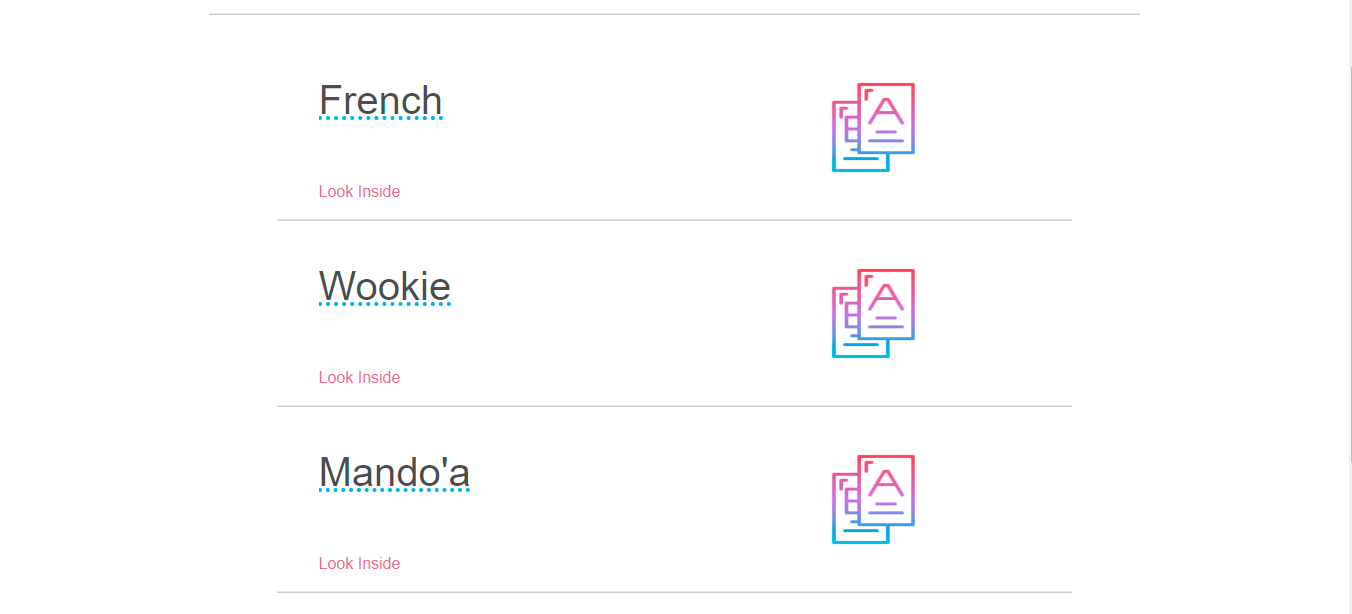
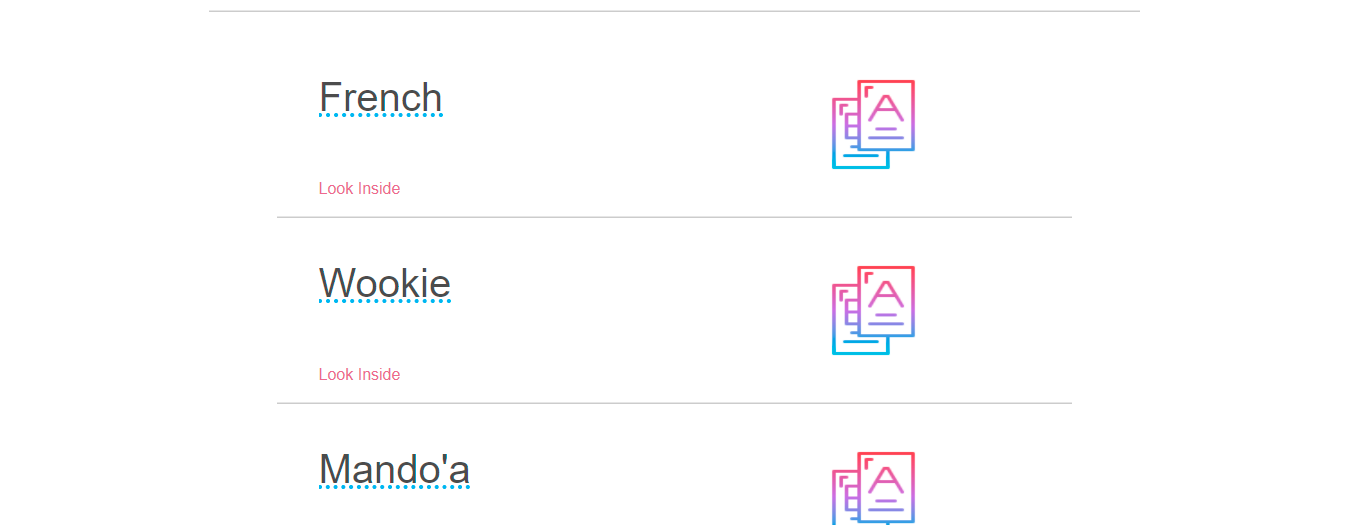
About page done

diff --git a/src/components/aboutContent.js b/src/components/aboutContent.js
@@ -21,39 +21,113 @@ const AboutContent = (props) => {
 
 
 const Overview = (props) => {
-    // change this item to add to this about page without having to copy paste 600 things
-    let basePageItems = [ ['Flashcards', 'Place and Print all your learned words in one place.'], 
-                          ['Quiz', ''], 
-                          ['Mnemonics', 'Fun examples go here'], 
-                          ['Resources', 'I dont own any of this or have sponsors.'] ];
+    // this is not very scalable, but im not gonna redo it so idc
+    
      return (
     <ul className={styles.listcontentwrapper} >
+                    <h1> Flashcards </h1>
 
        <li className={styles.list_items}>
-                <div className={styles.text_content}> 
-                   
-                    <h1> Flashcards </h1>
-                    <p> Place and Print all your learned words in one place. </p>
-
-                    <p> </p>
-                    <p> Create various sets for any language you may want to learn. </p>                     
-                    <img className={styles.img_content} src="/images/about_example1.png"/>
-
-                    <p> </p>
-                    <p> Change the name of the decks by clicking on it twice. </p>                     
-                    <img className={styles.img_content} src="/images/about_example2.png"/>
+                <div className={styles.text_wrapper}>
+                
+                    <div className={styles.text_content_left}>
+                        <img className={styles.img_content} src="/images/about_example1.png"/>
+                    </div>
     
+                    <div className={styles.text_content_right}>
+                        <p> Create decks for any language you may want to learn. </p>                     
+                    </div>
+                    
                 </div>
-            </li>;         
+                
+                
+                <div className={styles.text_wrapper}>
+                
+                    <div className={styles.text_content_left}>
+                        <img className={styles.img_content} src="/images/about_example2.png"/>
+                    </div>
+    
+                    <div className={styles.text_content_right}>
+                        <p> Change the name of the decks by clicking on it. </p>                     
+                    </div>
+                    
+                </div>
+                
+                <div className={styles.text_wrapper}>
+                    <div className={styles.text_content_left}>
+                        <img className={styles.img_content} src="/images/about_example3.png"/>
+                    </div>
+    
+                    <div className={styles.text_content_right}>
+                        <p> Place and Print all your learned words in one place. </p>
+                    </div>                    
+                </div>                
+
+        </li>;         
 
         <li className={styles.list_items}>
-                <div className={styles.text_content}> 
-                   
-                    <h1> Quiz </h1>
-                    <p> Learn those words in the same place with various forms of quizzes </p> 
+                <h1> Quiz </h1>
+
+                
+                <div className={styles.text_wrapper}>
+                
+                    <div className={styles.text_content_left}>
+                        <img className={styles.img_content} src="/images/about_example6.png"/>
+                    </div>
     
+                    <div className={styles.text_content_right}>
+                    <p> Review concepts with mouse or arrow keys (left, space, right). </p> 
+                    </div>
+                    
+                </div>             
+                <div className={styles.text_wrapper}>
+                
+                    <div className={styles.text_content_left}>
+                        <img className={styles.img_content} src="/images/about_example4.png"/>
+                    </div>
+    
+                    <div className={styles.text_content_right}>
+                    <p> Learn those words in the same place with various forms of quizzes. </p> 
+                    <p> </p>
+                    <p> The difficulty can be increased or decreased. </p>
+                    </div>
+                    
                 </div>
-            </li>;         
+                
+                
+                <div className={styles.text_wrapper}>
+                
+                    <div className={styles.text_content_left}>
+                        <img className={styles.img_content} src="/images/about_example5.png"/>
+                    </div>
+    
+                    <div className={styles.text_content_right}>
+                    <p> Matching is a variant of quizzes. </p> 
+                    <p> The questions shuffle each time after picking one, to ensure mastery. </p>
+                    </div>
+                    
+                </div>                
+                
+            </li>;        
+            
+        <li className={styles.list_items}>
+                <h1> Mnemonics </h1>
+                
+                <div className={styles.text_wrapper}>
+                
+                    <div className={styles.text_content_left}>
+                        <img className={styles.img_content} src="/images/about_example7.png"/>
+                    </div>
+    
+                    <div className={styles.text_content_right}>
+                    <p> TO BE DONE. </p> 
+                    </div>
+                    
+                </div>                
+                
+ 
+         </li>
+ 
     <div style={{height: "60px"}}> </div>
 
     </ul>
@@ -75,7 +149,7 @@ const WrapperBelow = styled.div`
     align-items: center;
     
     height: 100%;
-    width: 60%; /* he he*/
+    width: 80%; /* he he*/
     
     color: rgba(0,0,0,0.7);
     flex-direction: column;    

diff --git a/src/components/styles/about.module.css b/src/components/styles/about.module.css
@@ -5,35 +5,49 @@
     padding: 0;
     
     height: 100%;
+    
+    display: inline-block;
 }
 
 .list_items{ /* the li items */
     border-bottom: 1px solid rgba(0,0,0,0.2);
+        
+    height: 1120px;
+    margin-bottom: 15px;
     
-    display: flex;
-    justify-content: center;
-    
-    height: 1000px;
 }
 
-.text_content{  /* the stuff on the left titel, desc, link */
-    height: 100%;
+.text_wrapper{  /* the stuff on the left titel, desc, link */
+    height: 350px;
     width: 100%;
     
     display: flex;
-    flex-direction: column;
     
-    padding-left: 42px;
     padding-top: 25px;
+    padding-bottom: 25px;
+    
+    justify-content: center;
 }
 
-.text_content > h1{
+.text_content_right{
+    display: flex;
+    justify-content: center;
+    align-items: center;
+    flex-direction: column;
+    
+    width: 403px;
+}
+
+.listcontentwrapper > h1{
+    margin-top: 25px;
     padding-bottom: 25px;
 }
 
 .img_content{
-    height: 300px;
+    max-height: 300px;
+    max-width: 650px;
+    width: 650px;
+    height: 253px;  
     background-color: transparent;
     
-    margin-bottom: 55px;
 }

diff --git a/src/components/quizOverview.js b/src/components/quizOverview.js
@@ -176,10 +176,12 @@ const Mcq = (props) => {
     const [weight, setWeight] = useState(1);    
     
     const {set} = props;
-    console.log(set);
     
     var all_cards = JSON.parse(localStorage.getItem(`flashcards-${set}`));    
     const length_questions = Object.keys(all_cards).length;
+    
+    
+    console.log(questionsObj)
     
     const get_question_options = (window) => {
               
@@ -251,7 +253,7 @@ const Mcq = (props) => {
         setScore(0);
         setTimer(0);
         setWeight(1);
-        get_question_options();
+        get_question_options(length_questions);
     }
     const handleTransition = (e) => {
     
